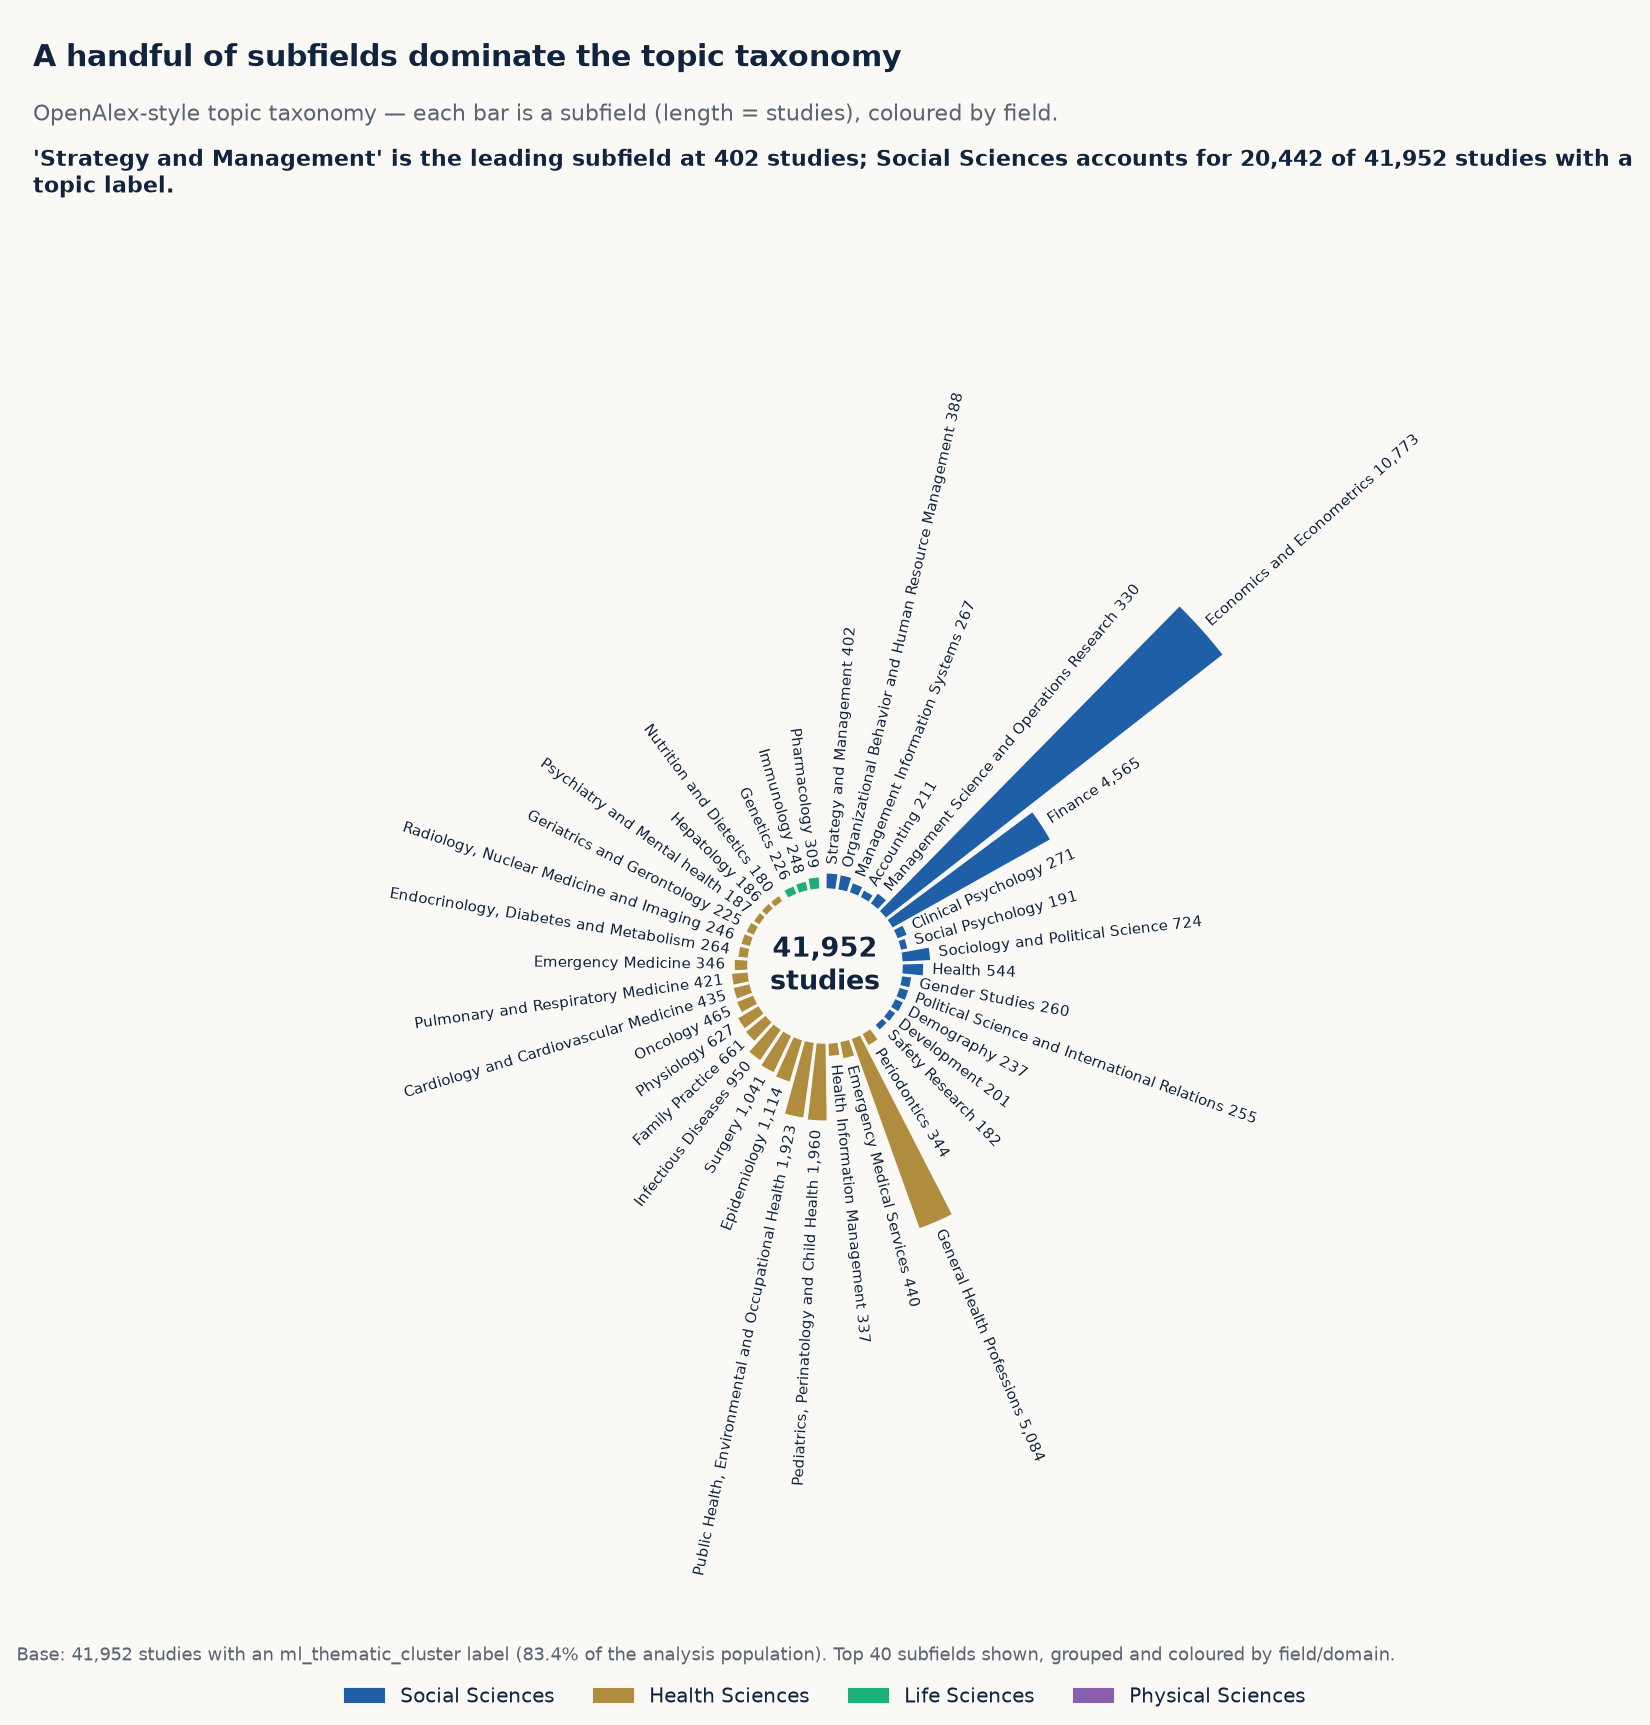
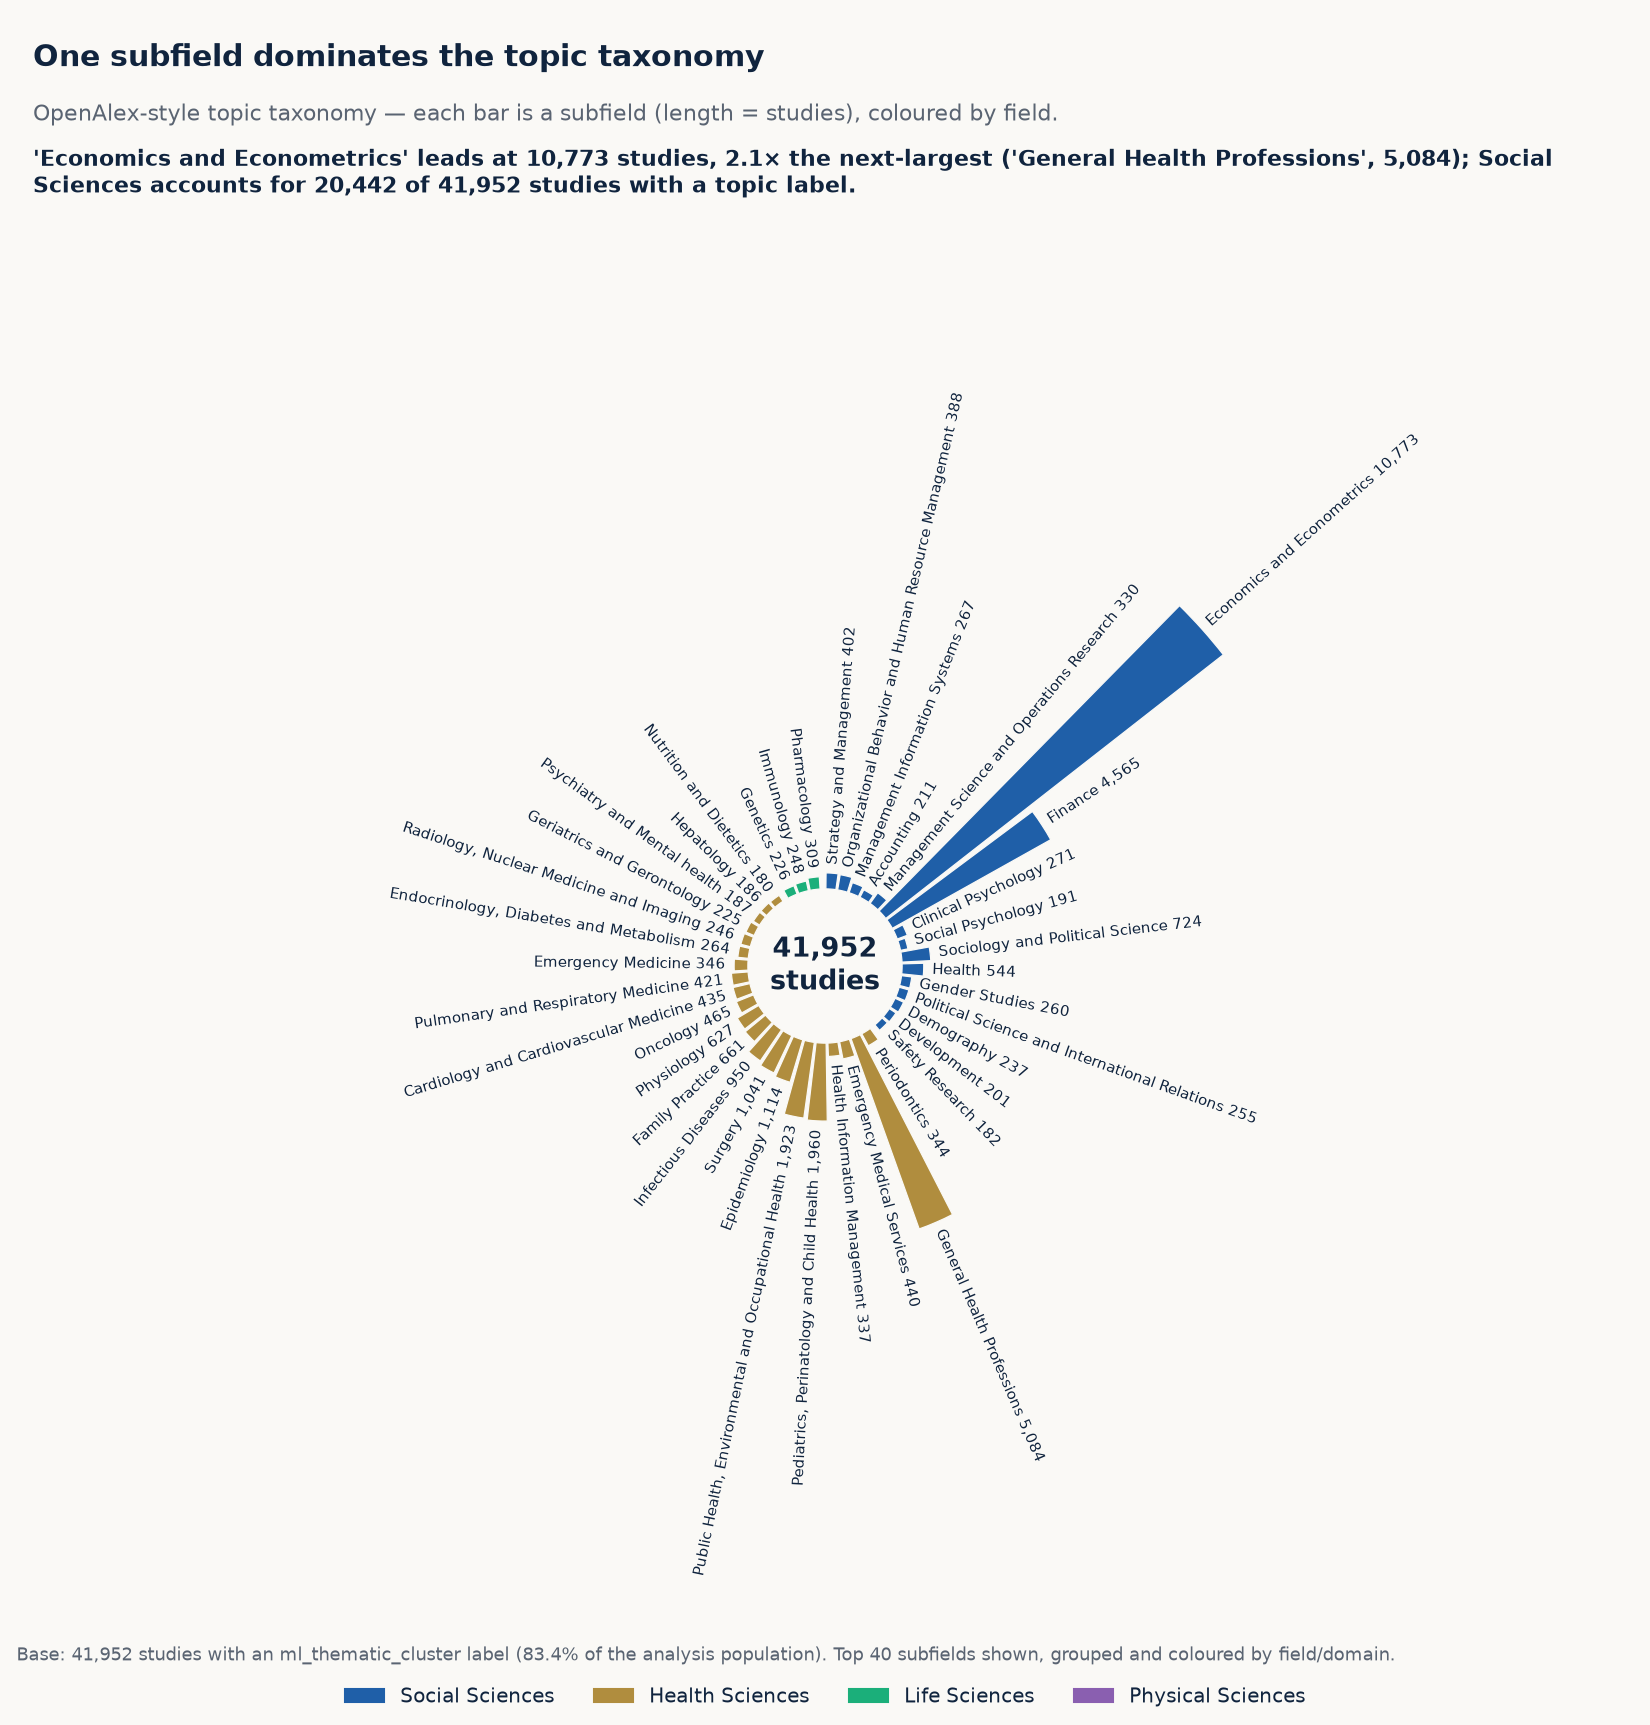
Add treemap + bivariate map; fix topic-landscape headline bug; document in README
fig_topic_landscape_treemap.png: same OpenAlex subfield taxonomy as the
circular chart, as a treemap (kept alongside it, not instead). Needed a flat
(non-nested) squarified layout and sqrt-weighted cell area to stay legible
given how dominated the corpus is by one subfield.

fig_map_bivariate.png: modeled on HEE's fig_map_bivariate.webp, a 3x3
bivariate choropleth of country disease burden (DALYs) x HFF research
volume, in tertiles. Needed installing plotly+kaleido locally (not
committed as a dependency of the published site) to rasterize a map tile,
composited into the usual matplotlib headline/footnote layout.

Also fixed a pre-existing bug in fig_topic_landscape.png's own headline:
top_subfield/top_subfield_n were read from bar_rows[0], which is sorted
domain-then-field-then-count for the chart's grouped layout, not by count
-- so the headline named the wrong "leading subfield" ("Strategy and
Management" at 402, when "Economics and Econometrics" at 10,773 is
obviously the dominant bar). Now read directly from the count ranking.

README: documents both new figures' methodology and the new plotly/kaleido
build dependency.

diff --git a/README.md b/README.md
@@ -36,6 +36,12 @@ writes under `docs/data/texts/` are published output and are committed like the 
 Runtime deps are pinned jsdelivr CDNs: plotly.js-dist-min 2.35.2, tom-select 2.3.1,
 noUiSlider 15.8.1, Google Fonts (Newsreader + Inter). No build step, no bundler.
 
+`docs/dex_hff/build_figures.py` (not committed, run locally) additionally needs `plotly` and
+`kaleido` (`pip install plotly kaleido`) for the one Gallery figure that needs real country
+geometry (`fig_map_bivariate.png`) — Plotly's built-in map is rendered to a PNG via kaleido and
+composited into the usual matplotlib headline/footnote layout, so every figure's typography
+stays in one place.
+
 ## What changed from the HEE dashboard, and why
 
 HEE's fields describe *economic evaluations of interventions* (does the study use a QALY,
@@ -109,3 +115,30 @@ are tagged *Revenue Raising* only 0.32× as often — the widest gaps in either 
 Row order is sorted by each disease's mean ratio across its non-grey cells, so the top of
 the chart reads as the areas getting relatively *less* financing-function-specific research
 attention than average, and the bottom as relatively *more*.
+
+## Two more figures worth a methodology note
+
+**`fig_topic_landscape_treemap.png`** — the same OpenAlex-style subfield taxonomy as
+`fig_topic_landscape.png`'s circular bar chart, laid out as a treemap instead. HFF's version
+is dominated by one subfield ("Economics and Econometrics", ~26% of tagged studies, 2.1× the
+next-largest) far more than HEE's own circular chart is by any single clinical specialty —
+a real difference (financing-function research clusters into generic economics/policy topics
+much more than clinical cost-effectiveness research does), not a formatting bug. Bar-length
+encoding makes that skew look like a single broken spoke, so the treemap exists alongside the
+circular chart as an area-encoded alternative. Getting it to render well needed two
+departures from a textbook treemap: a flat (non-nested) squarified layout — nesting by
+domain first degenerates into thin slivers when, as here, only two domains matter at any
+real scale — and cell area proportional to √(studies) rather than studies directly, since
+the linear scale is so dominated by one cell that every other one would collapse to an
+unreadable sliver. The circular chart remains the exact-linear-scale reference; the treemap
+trades that for legibility, and says so in its own footnote.
+
+**`fig_map_bivariate.png`** — modeled directly on HEE's `fig_map_bivariate.webp`: a 3×3
+bivariate choropleth crossing each country's disease burden (GBD 2023 DALYs, tertiles)
+against its HFF research volume (study-country pairs, tertiles). Unlike the opportunity
+matrix, this one needed no conceptual substitution — HFF has exactly the two country-level
+ingredients HEE's version uses. It's also the only Gallery figure needing real country
+geometry, which the rest of `build_figures.py` doesn't otherwise touch (the interactive
+dashboard's map uses Plotly loaded from a CDN in the browser; this is Plotly used locally, at
+build time, purely to rasterize a map tile that gets composited into the same matplotlib
+headline/footnote layout as every other figure).
